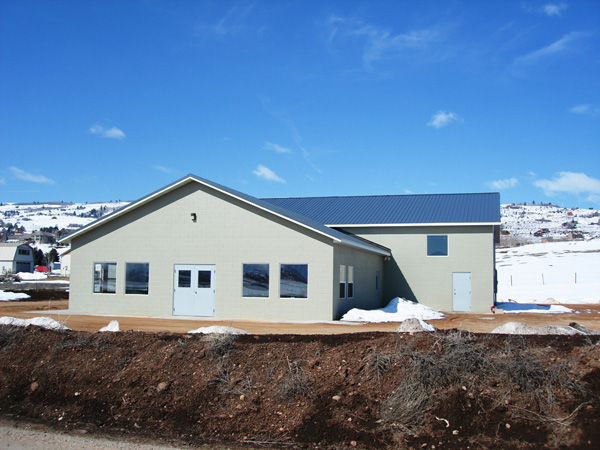
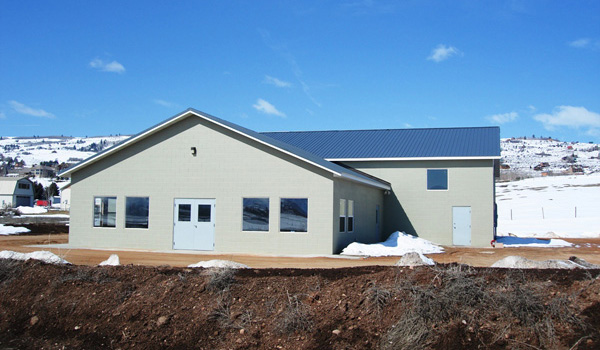
replaced gallery images; layout updates;

diff --git a/css/site.css b/css/site.css
@@ -76,7 +76,7 @@ body > .navbar .brand:hover {
 /* padding for in-page bookmarks and fixed navbar */
 section {
   padding-top: 30px;
-  padding-bottom: 30px;
+  padding-bottom: 20px;
 }
 section > .page-header,
 section > .lead {
@@ -193,7 +193,7 @@ hr.soften {
   background-size: cover;
   opacity: 1;
 }
-@media
+/*@media
 only screen and (-webkit-min-device-pixel-ratio: 2),
 only screen and (   min--moz-device-pixel-ratio: 2),
 only screen and (     -o-min-device-pixel-ratio: 2/1) {
@@ -202,7 +202,7 @@ only screen and (     -o-min-device-pixel-ratio: 2/1) {
     background-size: 150px 150px;
   }
 
-}
+}*/
 
 /* Masthead (docs home)
 ------------------------- */

diff --git a/index.php b/index.php
@@ -83,9 +83,34 @@
 			
 			<hr />
 			
-			<div class="row-fluid">
-				<div class="span5">
-					<section id="pictures">
+			<section id="info">
+				<div class="row-fluid">
+					<div class="span7">
+						<h2>Pricing</h2>
+						<p class="lead">
+							Pricing is competitve and starts at just <strong>$50/month</strong>. Call or <a href="mailto: sa_ripplinger@comcast.net">email</a> us to discuss unit availability, pricing and options, or any other questions you might have.
+						</p>
+					
+						<h2>Contact</h2>
+						<div class="row-fluid">
+							<div class="span5">
+								<address>
+									<strong>Sarah Ann Ripplinger</strong>
+									<br>
+									<abbr title="Home Phone">h:</abbr> 435-258-2139
+									<br />
+									<abbr title="Cell Phone">c:</abbr> 435-287-5070
+									<strong>Email</strong>
+									<br>
+									<a href="mailto: sa_ripplinger@comcast.net">sa_ripplinger@comcast.net</a>
+								</address>
+							</div>
+							<div class="span7">
+								<p class="lead"><em>We'd love to hear from you!</em></p>
+							</div>
+						</div>
+					</div>
+					<div class="span5">
 						<div id="img-gallery" class="carousel slide">
 							<!-- <ol class="carousel-indicators">
 								<li data-target="#img-gallery" data-slide-to="0" class="active"></li>
@@ -112,32 +137,9 @@
 							<a class="carousel-control left" href="#img-gallery" data-slide="prev">&lsaquo;</a>
 							<a class="carousel-control right" href="#img-gallery" data-slide="next">&rsaquo;</a>
 						</div>
-					</section>
+					</div>
 				</div>
-				<div class="span7">
-					<section id="info">
-							<h2>Pricing</h2>
-							<p>
-								Pricing is competitve and starts at just <strong>$50/month</strong>. Call or <a href="mailto: sa_ripplinger@comcast.net">email</a> us to discuss unit availability, pricing and options, or any other questions you might have.
-							</p>
-						
-							<h2>Contact</h2>
-							<address>
-								<strong>Sarah Ann Ripplinger</strong>
-								<br>
-								<abbr title="Home Phone">h:</abbr> 435-258-2139
-								<br />
-								<abbr title="Cell Phone">c:</abbr> 435-287-5070
-							</address>
-	
-							<address>
-								<strong>Email</strong>
-								<br>
-								<a href="mailto: sa_ripplinger@comcast.net">sa_ripplinger@comcast.net</a>
-							</address>
-					</section>
-				</div>
-			</div>
+			</section>
 			
 			<hr />
 			
